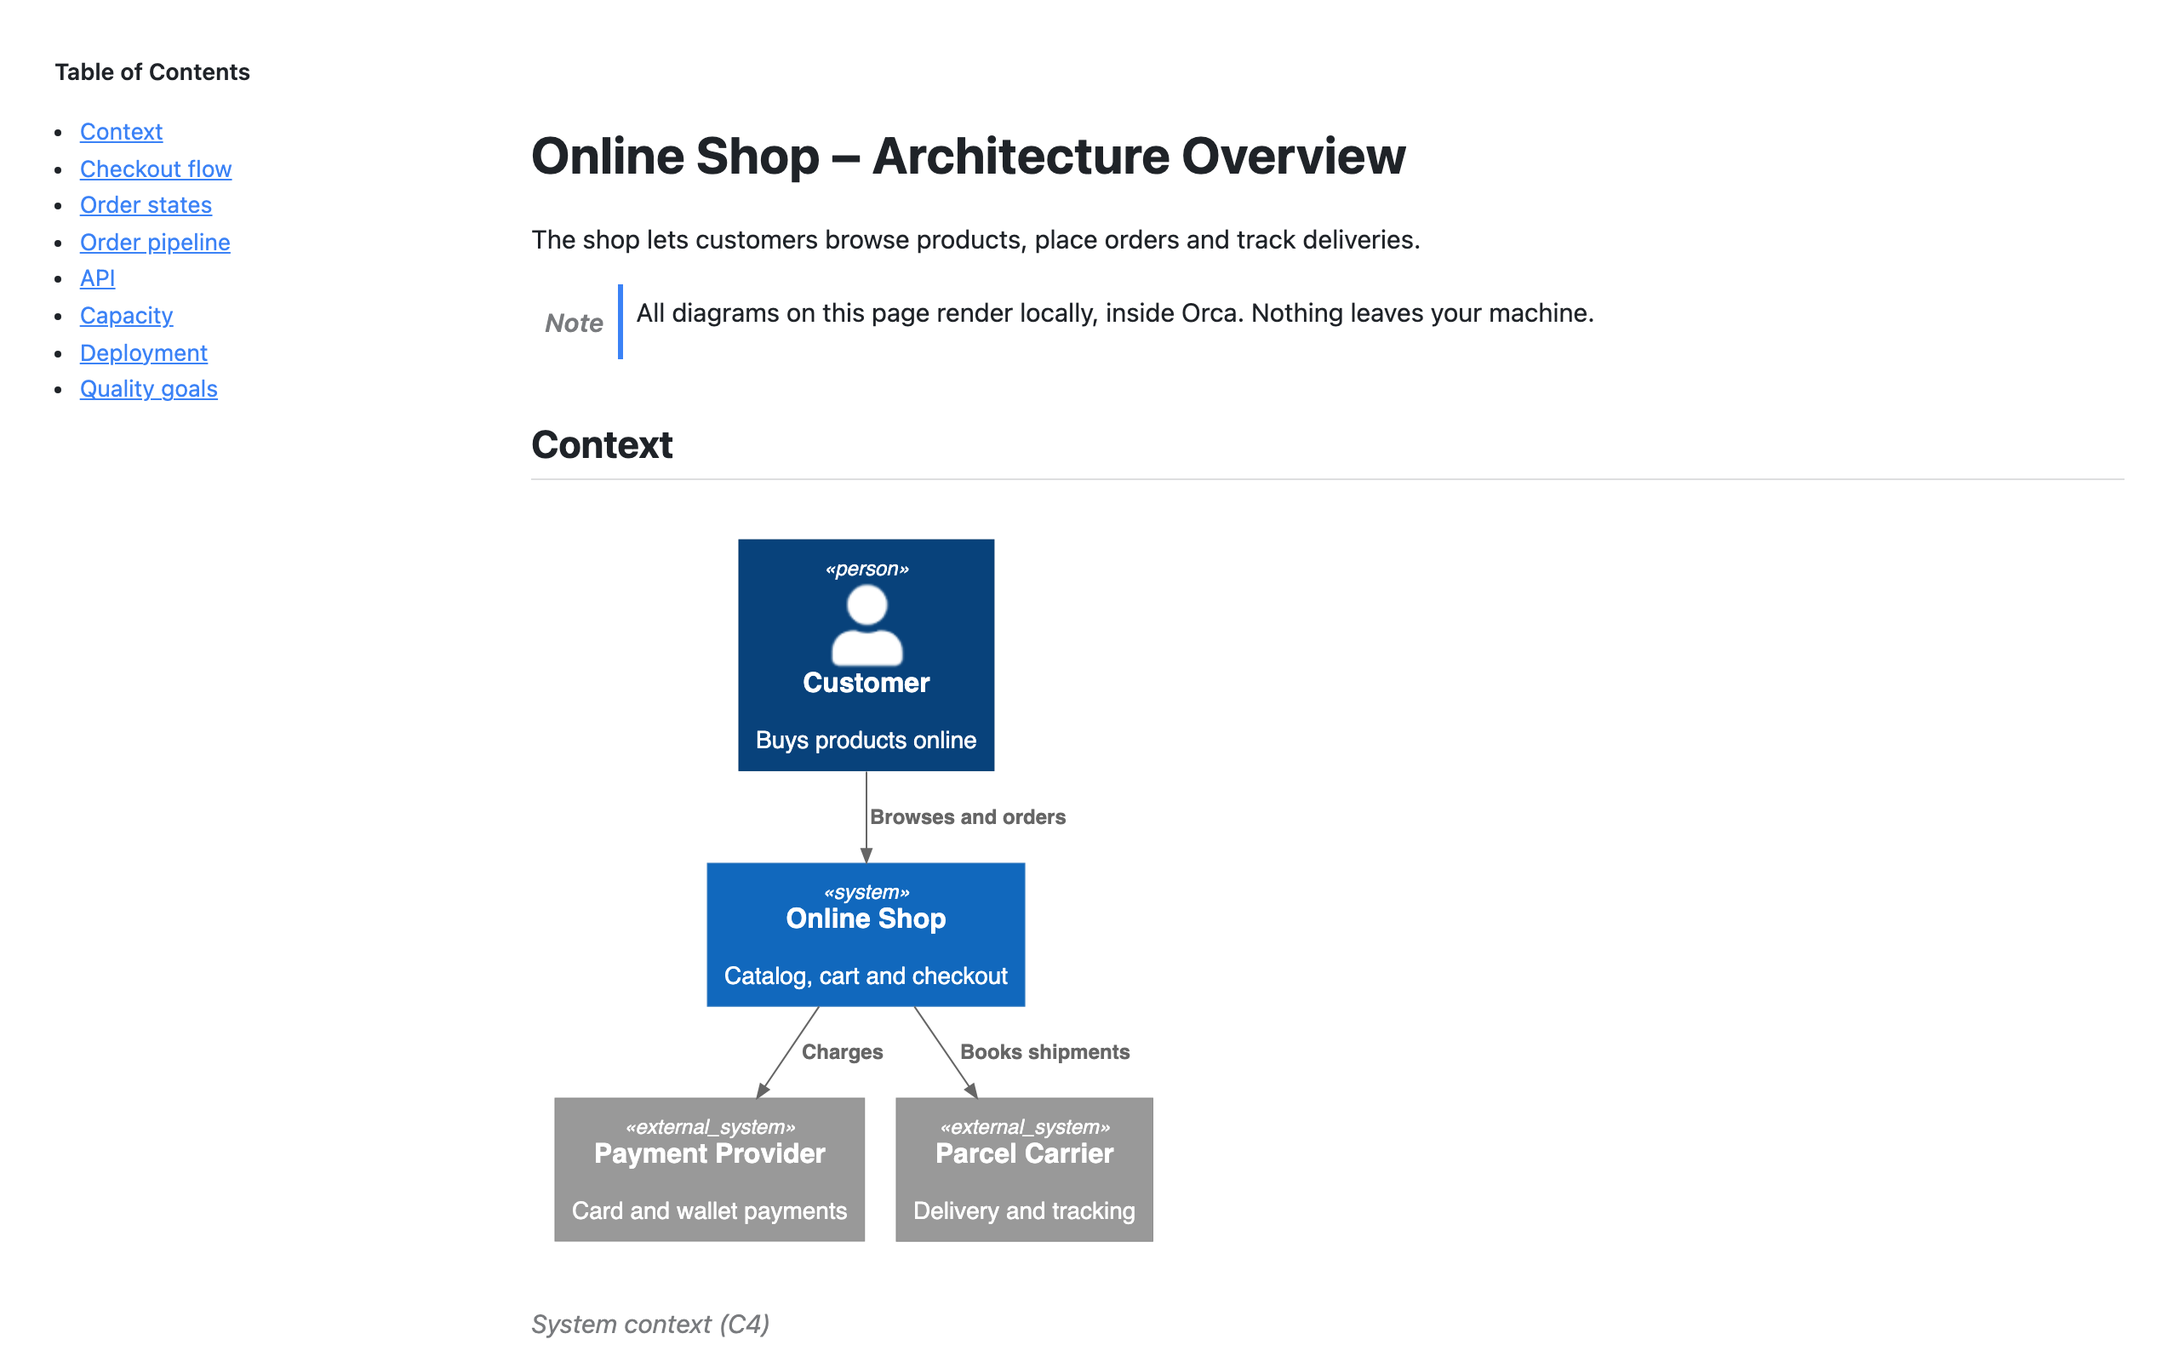
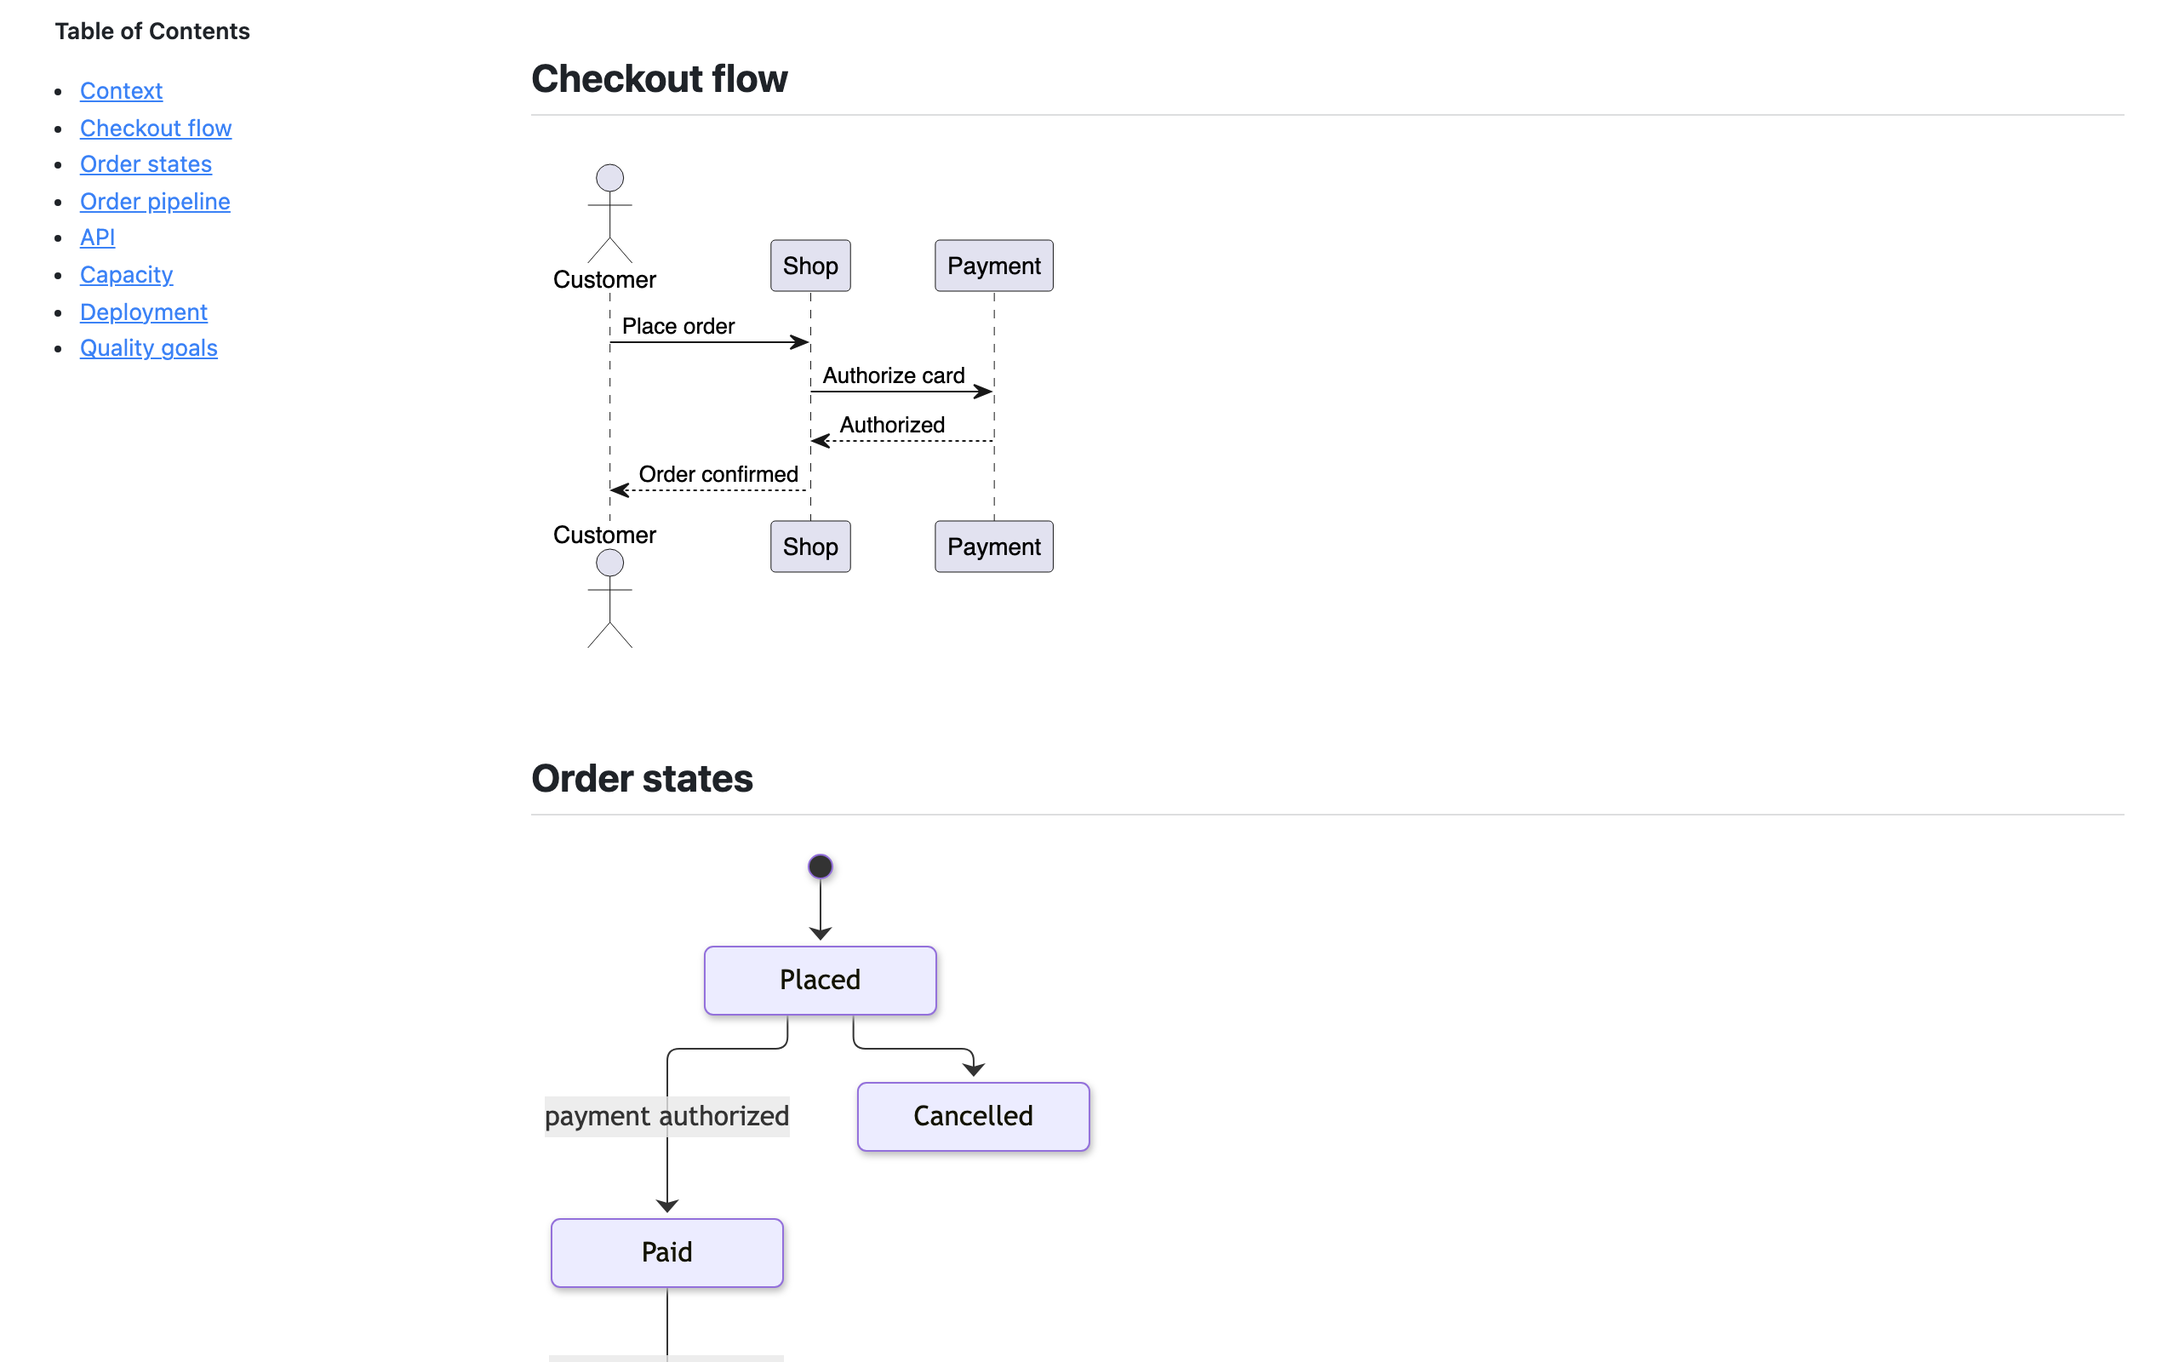
Public repo polish: security policy, issue templates, README for users, new images
- SECURITY.md (private vulnerability reporting is now on), issue
  templates for bugs and feature requests, CONTRIBUTING.md with the
  development section moved out of the README.
- README: install link, plugin page and changelog right under the
  badges; a "Privacy and permissions" section explaining the plugin
  page's "Opens and edits files"; troubleshooting; a line on how it
  relates to Orca's built-in viewers.
- Images: the cover shows the whole C4 diagram (it was cut off) and is
  a JPEG now (76 KB instead of 858 KB, under the 500 KB file limit;
  the manifest allows JPEG covers). The light screenshot shows the
  sequence and state diagrams instead of mostly empty space, the dark
  one no longer cuts its heading, and the demo GIF starts with a
  diagram. scripts/media.mjs also writes a 2:1 GitHub social preview
  (docs/media/social-preview.jpg).
- Changelog: changes add user-facing notes under "## Unreleased";
  release.mjs turns that section into the release entry and notes
  (commit subjects only as a fallback). Stdlib changes are now compared
  against the last tag, not HEAD. AGENTS.md says so.
- GitHub Actions pinned by commit SHA; Renovate keeps the digests
  current (helpers:pinGitHubActionDigests).

Assisted-by: Claude Code

Changed region(s): [[0.25, 0.3125, 0.5312, 1.0], [0.25, 0.0312, 0.7188, 0.3438], [0.0312, 0.0, 0.125, 0.3125]]

diff --git a/tests/unit/changelog.test.ts b/tests/unit/changelog.test.ts
@@ -1,0 +1,30 @@
+import assert from 'node:assert/strict'
+import { test } from 'node:test'
+// @ts-expect-error plain JavaScript module without types
+import { unreleasedNotes, withRelease } from '../../scripts/changelog.mjs'
+
+const CHANGELOG = '# Changelog\n\n## Unreleased\n\n- New thing\n- Fixed thing\n\n## 1.0.0\n\n- First\n'
+
+test('unreleasedNotes returns the bullets under Unreleased only', () => {
+  assert.deepEqual(unreleasedNotes(CHANGELOG), ['- New thing', '- Fixed thing'])
+  assert.deepEqual(unreleasedNotes('# Changelog\n\n## Unreleased\n\n## 1.0.0\n\n- First\n'), [])
+  assert.deepEqual(unreleasedNotes('# Changelog\n\n## 1.0.0\n\n- First\n'), [])
+})
+
+test('unreleasedNotes reads an Unreleased section at the end of the file', () => {
+  assert.deepEqual(unreleasedNotes('# Changelog\n\n## Unreleased\n\n- Only\n'), ['- Only'])
+})
+
+test('withRelease turns Unreleased into the version and opens a new empty section', () => {
+  assert.equal(
+    withRelease(CHANGELOG, '1.1.0', ['- New thing', '- Fixed thing', '- Update PlantUML stdlib bundles: c4']),
+    '# Changelog\n\n## Unreleased\n\n## 1.1.0\n\n- New thing\n- Fixed thing\n- Update PlantUML stdlib bundles: c4\n\n## 1.0.0\n\n- First\n',
+  )
+})
+
+test('withRelease adds both sections when the changelog has no Unreleased section', () => {
+  assert.equal(
+    withRelease('# Changelog\n\n## 1.0.0\n\n- First\n', '1.0.1', ['- Rebuild']),
+    '# Changelog\n\n## Unreleased\n\n## 1.0.1\n\n- Rebuild\n\n## 1.0.0\n\n- First\n',
+  )
+})

diff --git a/README.md b/README.md
@@ -10,6 +10,9 @@
 [![License: MIT](https://img.shields.io/badge/license-MIT-blue.svg)](LICENSE)
 [![Orca ≥ 1.4.246](https://img.shields.io/badge/Orca-%E2%89%A5%201.4.246-7c3aed.svg)](https://github.com/stablyai/orca)
 [![Orca plugin directory](https://img.shields.io/badge/Orca-plugin%20directory-7c3aed.svg)](https://www.onorca.dev/plugins/schowave/orca-asciidoc-diagrams)
+[![Latest release](https://img.shields.io/github/v/release/schowave/orca-asciidoc-diagrams?color=7c3aed)](CHANGELOG.md)
+
+**[Install in Orca](https://onorca.dev/plugins/schowave.asciidoc-diagrams?catalog=community)** · [Plugin page](https://www.onorca.dev/plugins/schowave/orca-asciidoc-diagrams) · [Changelog](CHANGELOG.md)
 
 <img src="docs/media/demo.gif" width="800" alt="Typing AsciiDoc with a PlantUML sequence diagram and a Mermaid state diagram; the preview updates as you type">
 
@@ -22,6 +25,8 @@ Architecture docs often live in AsciiDoc, as in arc42 or docs-as-code, with diag
 - **No server, no Java, no Kroki.** PlantUML, Mermaid and Graphviz run inside Orca's plugin sandbox, so your diagram sources never leave your machine.
 - **Same syntax as [asciidoctor-diagram](https://docs.asciidoctor.org/diagram-extension/latest/).** Files keep rendering in Asciidoctor, IntelliJ and GitLab.
 - **Live.** The preview follows your edits, including unsaved ones.
+
+Orca itself previews Markdown and shows Mermaid files. This plugin adds AsciiDoc, with PlantUML (including C4 and the other bundled libraries), Mermaid and Graphviz diagrams inside the document.
 
 ## Features
 
@@ -44,6 +49,10 @@ Architecture docs often live in AsciiDoc, as in arc42 or docs-as-code, with diag
 - Wide diagrams scale to fit the page.
 - A broken diagram shows an error box with its source. The rest of the document still renders.
 - `:toc:` renders a table of contents. `:toc: left` and `:toc: right` render it as a sticky sidebar. In-document links scroll to their target.
+
+## Privacy and permissions
+
+Orca's plugin page lists the plugin as *Opens and edits files*, because it is the editor for `.adoc` files. In practice it only reads: the preview never writes to your document; you edit in Orca's **Source** view. It has no network access, so neither the document nor its diagrams leave your machine. The rendered HTML is sanitized, so scripts in a document from someone else do not run. Details are in [SECURITY.md](SECURITY.md).
 
 ## Usage
 
@@ -79,8 +88,8 @@ The area is stem:[\pi r^2].
 - `[source,plantuml]` is shown as code, not rendered.
 
 <table><tr>
-<td><img src="images/screenshot-light.png" alt="Architecture document with C4, sequence and Mermaid diagrams in a light theme"></td>
-<td><img src="images/screenshot-dark.png" alt="The same document in a dark theme"></td>
+<td><img src="images/screenshot-light.png" alt="Architecture document with a PlantUML sequence diagram and a Mermaid state diagram in a light theme"></td>
+<td><img src="images/screenshot-dark.png" alt="The same document in a dark theme: a Graphviz event diagram, highlighted TypeScript and a KaTeX formula"></td>
 </tr></table>
 
 ## Installation
@@ -157,6 +166,16 @@ npm run build                           # dist/plugin now contains your selectio
 
 Then load `dist/plugin` as a development folder, as described in [From source](#from-source). The names are the folder names in [plantuml-stdlib](https://github.com/plantuml/plantuml-stdlib/tree/master/stdlib). The build fails if the page grows beyond 9.5 MiB: Orca's limit is 10 MiB, and the default build is about 6 MiB. AWS alone adds about 2.7 MiB.
 
+## Troubleshooting
+
+| Problem | What to do |
+|---|---|
+| A diagram shows "library … is not bundled" | The PlantUML stdlib library is not in the default build. Build your own selection ([Custom library selection](#custom-library-selection)) or [ask for it](https://github.com/schowave/orca-asciidoc-diagrams/issues/new/choose) |
+| Math shows as `\(…\)` or `\$…\$` | Set `:stem:` (or `:stem: latexmath`) in the document header |
+| A `.adoc` file opens as text, not as a preview | Switch the tab's view to **Preview**, and check that the plugin is enabled under Settings → Plugins |
+| A PlantUML diagram looks different from IntelliJ | The preview uses PlantUML's Smetana layout, because Graphviz `dot` cannot run in the sandbox |
+| A rebuild from source does not show up | Reopen the tab, or remove and re-add the development folder |
+
 ## How it works
 
 Orca hosts custom editors in a sandboxed iframe. Its CSP allows only inline scripts and blocks `eval`, WebAssembly, `fetch` and workers. So the build produces **one self-contained HTML file**:
@@ -168,30 +187,9 @@ Orca hosts custom editors in a sandboxed iframe. Its CSP allows only inline scri
 
 Design decisions are in [SPEC.md](SPEC.md).
 
-## Development
+## Contributing
 
-Tool versions and tasks live in [`mise.toml`](mise.toml), with checksums in `mise.lock`. CI uses the same files, so local and remote builds run on the same Node.
-
-```sh
-mise trust && mise run setup   # once: pinned Node and lefthook, npm packages, headless Chromium, git hooks (https://mise.jdx.dev)
-mise run check         # fast checks: format, lint, types, TODO rule, unit tests
-mise run check-deep    # dead code, duplicate code, dependency licenses (CI runs these too)
-mise run test          # build + render the fixtures in headless Chromium inside a replica of Orca's frame
-mise run build         # build only: editor/index.html and dist/plugin
-mise run media         # regenerate images/ and docs/media/demo.gif from the build
-mise tasks             # list all tasks
-```
-
-| Path | Content |
-|---|---|
-| `src/` | The preview: `bootstrap.ts` (startup), `convert.ts` (AsciiDoc to HTML), `editor.ts` (rendering), `text.ts` (pure helpers), `payloads.ts` and `base122.ts` (lazy brotli payloads), `payloads/` (highlight.js and KaTeX entries), `editor.css` |
-| `scripts/build.mjs` | Builds `editor/index.html`. It fails above 9.5 MiB, below Orca's 10 MiB limit |
-| `tests/unit/` | Unit tests (`*.test.ts`, run by `node --test`) for `src/text.ts`, `src/convert.ts`, `src/base122.ts` and `scripts/` |
-| `tests/` | Sandbox harness (`orca-frame.mjs`: same sandbox, CSP and click policy as Orca, mocked `window.orca`) and fixtures |
-| `vendor/plantuml-stdlib.lock.json` | SHA-256 of each bundled PlantUML stdlib library. The libraries themselves are not committed, because the Orca catalog refuses archives. `mise run fetch-stdlib` downloads them into the gitignored `vendor/plantuml-stdlib/`, and `--update` pins new upstream versions; the release workflow does that weekly. The list is in `scripts/stdlib-list.mjs` |
-| `orca-plugin.json`, `editor/`, `images/` | The plugin as Orca installs it. `editor/index.html` is committed build output; the release workflow rebuilds and commits it |
-
-Contributions are welcome. Please run `mise run check` and `mise run test`. Leave `editor/index.html` alone: the weekly release workflow rebuilds it. Rules for coding agents are in [AGENTS.md](AGENTS.md).
+Bug reports and pull requests are welcome: see [CONTRIBUTING.md](CONTRIBUTING.md) for the development setup and checks. Security issues go through [SECURITY.md](SECURITY.md).
 
 ## License
 

diff --git a/CONTRIBUTING.md b/CONTRIBUTING.md
@@ -1,0 +1,39 @@
+# Contributing
+
+Thanks for helping. Bug reports, diagram examples that render wrongly and pull requests are all welcome.
+
+## Reporting a problem
+
+Open an [issue](https://github.com/schowave/orca-asciidoc-diagrams/issues/new/choose) with your Orca version, the plugin version and the smallest `.adoc` snippet that shows the problem. For security issues, see [SECURITY.md](SECURITY.md) instead.
+
+## Development
+
+Tool versions and tasks live in [`mise.toml`](mise.toml), with checksums in `mise.lock`. CI uses the same files, so local and remote builds run on the same Node.
+
+```sh
+mise trust && mise run setup   # once: pinned Node and lefthook, npm packages, headless Chromium, git hooks (https://mise.jdx.dev)
+mise run check         # fast checks: format, lint, types, TODO rule, unit tests
+mise run check-deep    # dead code, duplicate code, dependency licenses (CI runs these too)
+mise run test          # build + render the fixtures in headless Chromium inside a replica of Orca's frame
+mise run build         # build only: editor/index.html and dist/plugin
+mise run media         # regenerate images/, docs/media/demo.gif and the GitHub social preview from the build
+mise tasks             # list all tasks
+```
+
+| Path | Content |
+|---|---|
+| `src/` | The preview: `bootstrap.ts` (startup), `convert.ts` (AsciiDoc to HTML), `editor.ts` (rendering), `text.ts` (pure helpers), `payloads.ts` and `base122.ts` (lazy brotli payloads), `payloads/` (highlight.js and KaTeX entries), `editor.css` |
+| `scripts/build.mjs` | Builds `editor/index.html`. It fails above 9.5 MiB, below Orca's 10 MiB limit |
+| `tests/unit/` | Unit tests (`*.test.ts`, run by `node --test`) for `src/text.ts`, `src/convert.ts`, `src/base122.ts` and `scripts/` |
+| `tests/` | Sandbox harness (`orca-frame.mjs`: same sandbox, CSP and click policy as Orca, mocked `window.orca`) and fixtures |
+| `vendor/plantuml-stdlib.lock.json` | SHA-256 of each bundled PlantUML stdlib library. The libraries themselves are not committed, because the Orca catalog refuses archives. `mise run fetch-stdlib` downloads them into the gitignored `vendor/plantuml-stdlib/`, and `--update` pins new upstream versions; the release workflow does that weekly. The list is in `scripts/stdlib-list.mjs` |
+| `orca-plugin.json`, `editor/`, `images/` | The plugin as Orca installs it. `editor/index.html` is committed build output; the release workflow rebuilds and commits it |
+
+## Pull requests
+
+- Run `mise run check` and `mise run test` before you push; CI runs the same, plus `mise run check-deep`.
+- Changes users notice get a line under `## Unreleased` in [CHANGELOG.md](CHANGELOG.md), written for users. The release workflow turns it into the release notes.
+- Leave `editor/index.html` alone: the weekly release workflow rebuilds and commits it.
+- Design decisions are in [SPEC.md](SPEC.md) and [docs/adr/](docs/adr/); rules for coding agents are in [AGENTS.md](AGENTS.md).
+
+Releases are cut by the release workflow, weekly or by hand; the Orca plugin directory picks up each new tag.

diff --git a/AGENTS.md b/AGENTS.md
@@ -28,14 +28,15 @@ Work in a git worktree of your own, not in the main checkout. In a new worktree 
 ## Definition of done
 
 - `mise run check` is green, and `mise run test` where the stages above require it.
-- User-visible change → entry in `README.md` (features, limitations) and, if it changes the design, `SPEC.md`. `CHANGELOG.md` is written by `scripts/release.mjs`; do not edit it.
+- User-visible change → entry in `README.md` (features, limitations) and, if it changes the design, `SPEC.md`.
+- User-visible change → also a line under `## Unreleased` in `CHANGELOG.md`, written for users of the plugin (what changes for them, not how). `scripts/release.mjs` turns that section into the release entry and the GitHub release notes. Do not edit released entries.
 - Technical decision with real alternatives → new ADR in `docs/adr/` (not enforced).
 - New domain term → entry in `GLOSSARY.md` (not enforced).
 
 ## Layout
 
 - `src/`: the preview that runs in the frame. `bootstrap.ts` starts it, `convert.ts` turns AsciiDoc into HTML plus diagram sources (no DOM), `editor.ts` renders (DOM), `text.ts` holds the pure helpers, `payloads.ts` loads the lazy compressed engines and `base122.ts` decodes them (decision: `docs/adr/0002-single-file-bundle-for-orca-frame.md`).
-- `scripts/`: build (`build.mjs`), stdlib download and lock (`fetch-stdlib.mjs`, `stdlib-lock.mjs`), release and stats scripts. `tests/unit/`: unit tests. `tests/`: browser harness and fixtures.
+- `scripts/`: build (`build.mjs`), stdlib download and lock (`fetch-stdlib.mjs`, `stdlib-lock.mjs`), release (`release.mjs`, with the changelog helpers in `changelog.mjs`) and stats scripts. `tests/unit/`: unit tests. `tests/`: browser harness and fixtures.
 - Generated, do not edit: `editor/index.html`, `dist/`, `vendor/plantuml-stdlib/` (a gitignored download cache), `vendor/plantuml-stdlib.lock.json`.
 
 ## Conventions

diff --git a/SECURITY.md b/SECURITY.md
@@ -1,0 +1,13 @@
+# Security policy
+
+The plugin renders `.adoc` files, which may come from other people, inside Orca's sandboxed plugin frame. It never writes to your files, has no network access, and sanitizes the rendered HTML, so a document cannot run scripts or reach Orca's document API. A way around any of that is a security issue.
+
+## Reporting a vulnerability
+
+Please report it privately through [GitHub's private vulnerability reporting](https://github.com/schowave/orca-asciidoc-diagrams/security/advisories/new), not in a public issue. Include the Orca and plugin versions and a document that shows the problem.
+
+You can expect a first answer within a week. Fixes ship as a new release, which Orca installs automatically for users of the plugin directory.
+
+## Supported versions
+
+Only the newest release gets fixes.

diff --git a/CHANGELOG.md b/CHANGELOG.md
@@ -1,5 +1,9 @@
 # Changelog
 
+## Unreleased
+
+- New cover and screenshots on the plugin page: the cover shows the complete C4 diagram, the screenshots show a sequence and a state diagram, and Graphviz, code and math in the dark theme
+
 ## 1.2.1
 
 - Editing no longer makes the preview jump: when you change a diagram above where you are reading, the page keeps its position while the diagram re-renders
